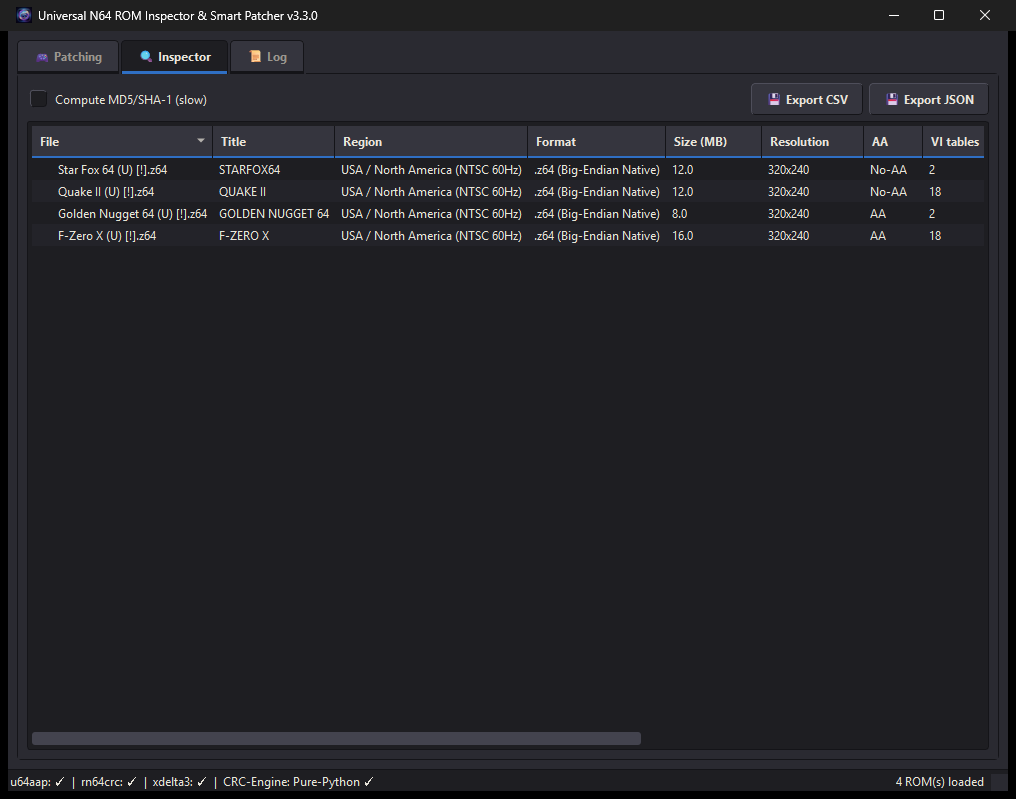
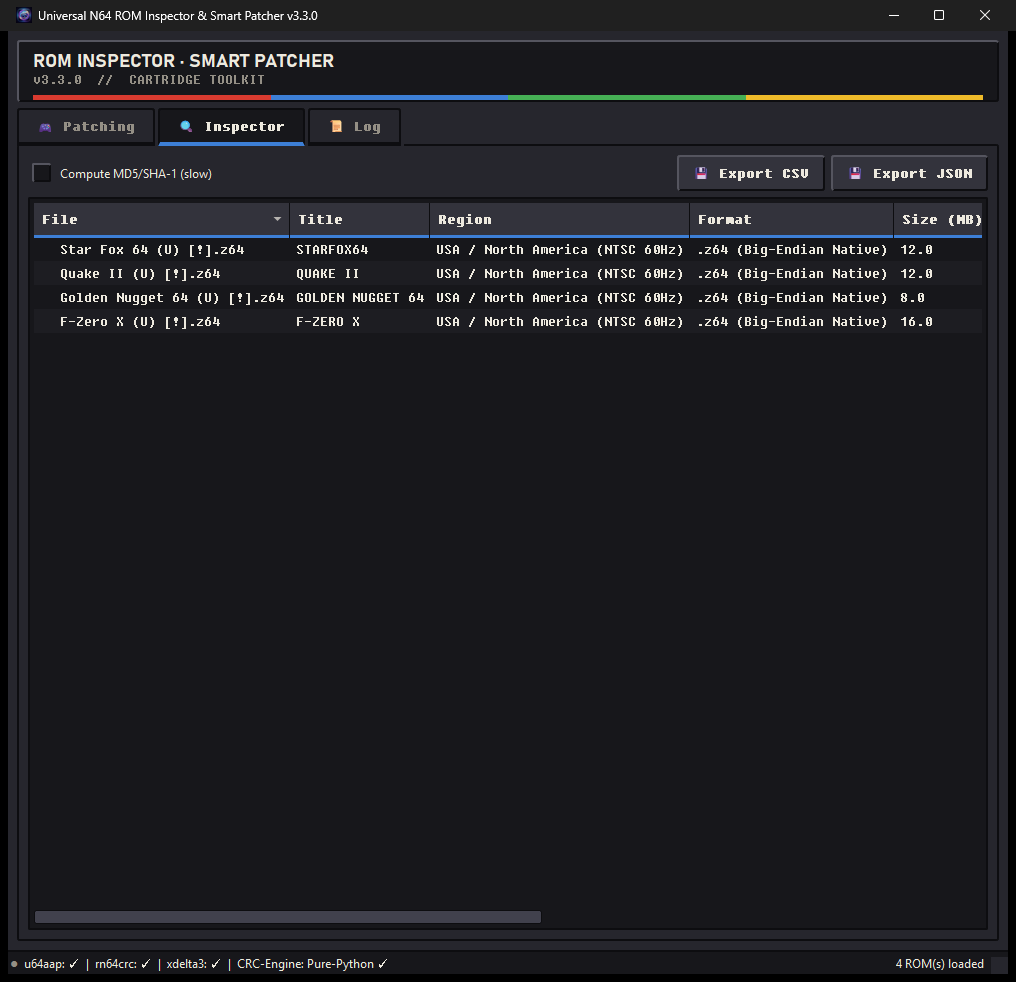
Release v3.3.1: console theme
Version bump and changelog. Both screenshots refreshed to the current
interface, including the Inspector tab which still showed the pre-faceplate
styling.

Claude-Session: https://claude.ai/code/session_012amZSEvPou7LaZdqc21CxY

diff --git a/src/n64patcher/_version.py b/src/n64patcher/_version.py
@@ -5,4 +5,4 @@ and `--version`) and pyproject.toml (dynamic metadata), so a release only
 has to change it here.
 """
 
-__version__ = "3.3.0"
+__version__ = "3.3.1"

diff --git a/README.md b/README.md
@@ -340,6 +340,11 @@ the installed package rather than the working directory):
 
 ## 📜 Version History
 
+- **v3.3.1 (Console Theme)**:
+  - Console-era interface: faceplate strip over a four-segment accent rule, cartridge-label panels with coloured spines, bevelled controls with real press travel, bitmap-era typography (Fixedsys/Terminal where present).
+  - The run control is a round red START key in a recessed collar. It stays an ordinary button underneath, with an accessible name, so keyboard and screen-reader use is unaffected.
+  - Front-panel indicator tracks run state: idle, working, clean, errors.
+  - Fixed a state bug the theme exposed: a checkbox that was checked *and* disabled (what a locked preset produces) rendered as unchecked, so the UI misreported what a run would do.
 - **v3.3.0 (Hi-Res Gating)**:
   - **BPS applier fixed**: the `SourceRead`/`TargetRead` action numbers were swapped, so *no real-world `.bps` patch could ever be applied* — every one failed its target CRC32 check. The test suite's own encoder used the same swapped numbering, so the two agreed with each other and with nothing else.
   - **BPS patch creation** (`--create-patch SOURCE TARGET OUT.bps`). A one-instruction edit in a 12 MB ROM yields a 65-byte patch.

diff --git a/CHANGELOG.md b/CHANGELOG.md
@@ -1,6 +1,6 @@
 # Changelog
 
-## Unreleased
+## v3.3.1 - Console Theme
 
 - Console-era GUI theme in `theme.py`: faceplate strip over a four-segment accent rule, cartridge-label panels with coloured spines, bevelled controls with real press travel, and bitmap-era typography (Fixedsys/Terminal where present, graceful fallbacks elsewhere). Monospace is reserved for technical readouts; prose keeps the body face, which also stops preset descriptions forcing the window wider than its configured geometry.
 - The run control is a round red START key in a recessed collar, centred between Inspect and Cancel. Generic industrial design - a red circle and the word START belong to nobody - and it stays a plain QPushButton with an accessible name, so automation and screen readers are unaffected.
